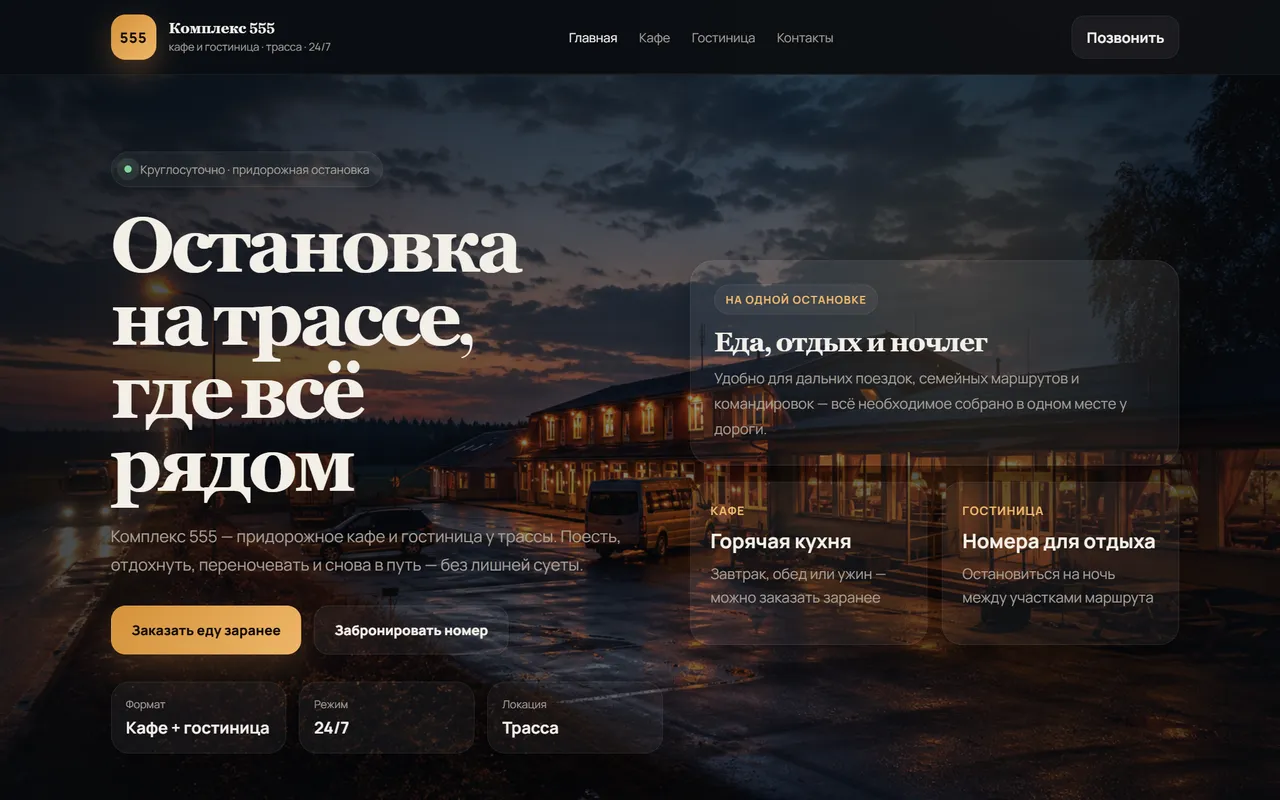
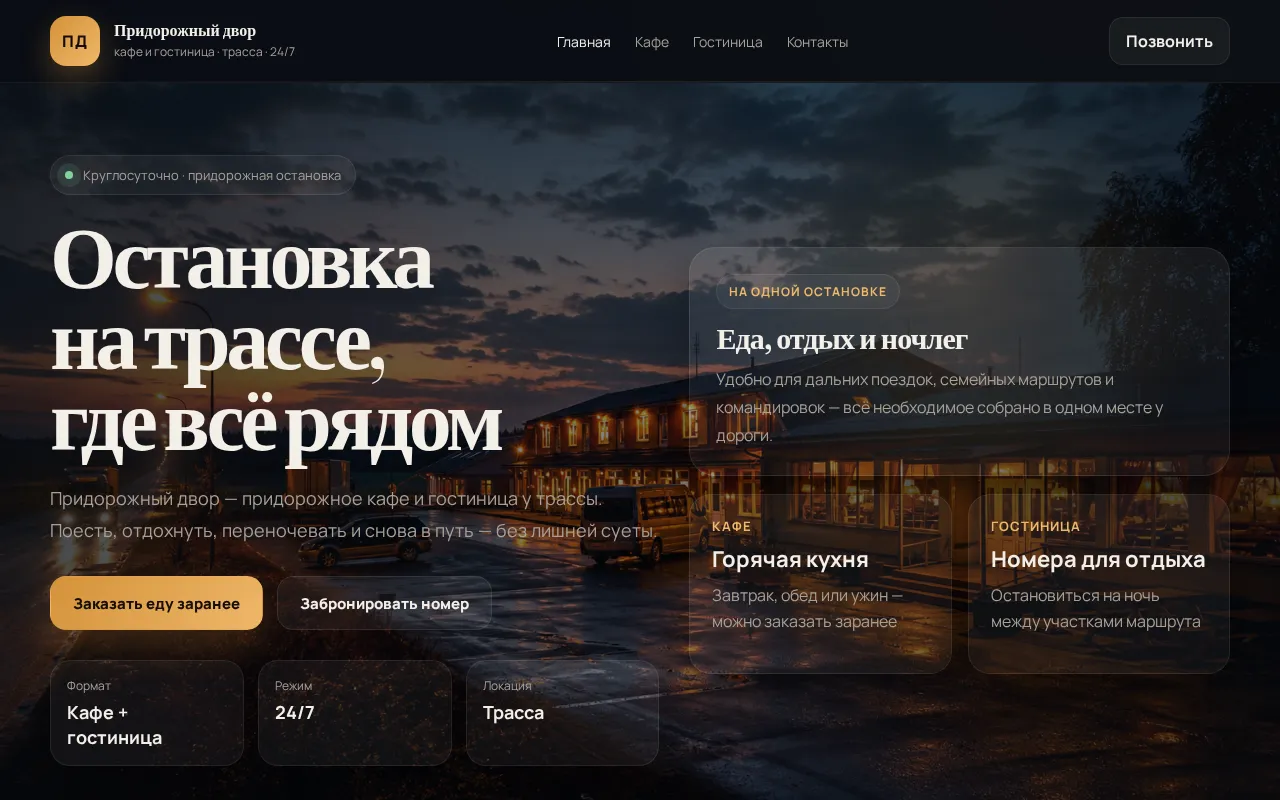
Rebrand Kompleks 555 case to Pridorozhny Dvor
Update portfolio copy and replace the case preview with a fresh
screenshot of the renamed roadside cafe and hotel site.

diff --git a/src/i18n/translations.js b/src/i18n/translations.js
@@ -242,12 +242,12 @@ export const translations = {
         },
         kompleks: {
           group: 'concept',
-          title: 'Kompleks 555',
+          title: 'Roadside Yard',
           type: 'Roadside café & hotel website',
-          was: 'A common problem for roadside businesses: present the format and take orders and bookings from one place without losing requests.',
-          did: 'We built the site: café with menu pre-orders, hotel, contacts and a quick call.',
+          was: 'A common problem for roadside businesses: guests need to quickly understand the format and order food or book a room without phone calls.',
+          did: 'We built the site for Pridorozhny Dvor: pre-order food, book a room, contacts and a quick call — all from one page.',
           result:
-            'A guest explores the format, pre-orders food and books a room in one place.',
+            'A traveler sees the format at a glance, pre-orders food and books a room in one place.',
           tags: ['Café', 'Hotel', 'Pre-order', 'Booking'],
         },
       },
@@ -532,12 +532,12 @@ export const translations = {
         },
         kompleks: {
           group: 'concept',
-          title: 'Комплекс 555',
+          title: 'Придорожный двор',
           type: 'Сайт придорожного кафе и гостиницы',
-          was: 'Типовая проблема придорожного бизнеса: показать формат и принимать заказы и брони из одного места, не теряя обращений.',
-          did: 'Собрали сайт: кафе с предзаказом меню, гостиница, контакты и быстрый звонок.',
+          was: 'Типовая проблема придорожного бизнеса: гостю нужно быстро понять формат и заказать еду или забронировать номер без звонков.',
+          did: 'Собрали сайт «Придорожный двор»: предзаказ еды, бронирование номера, контакты и быстрый звонок — всё с одной страницы.',
           result:
-            'Гость изучает формат, заказывает еду заранее и бронирует номер в одном месте.',
+            'Путник за пару минут понимает формат, заказывает еду заранее и бронирует номер в одном месте.',
           tags: ['Кафе', 'Гостиница', 'Предзаказ', 'Бронирование'],
         },
       },
